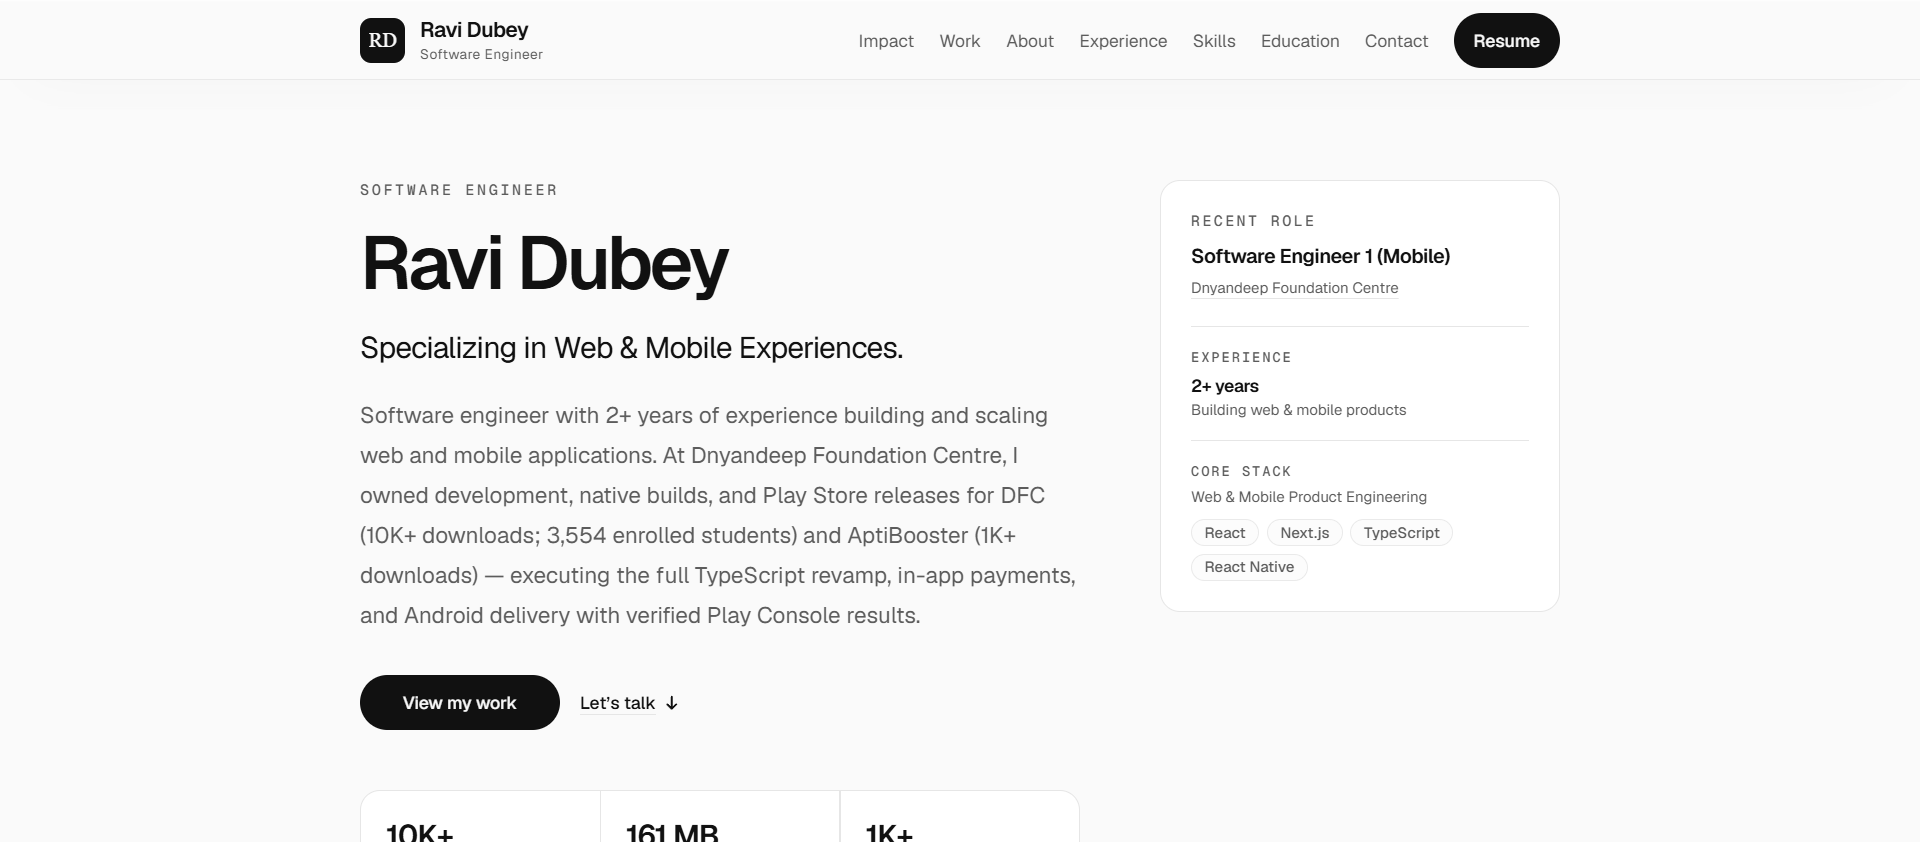
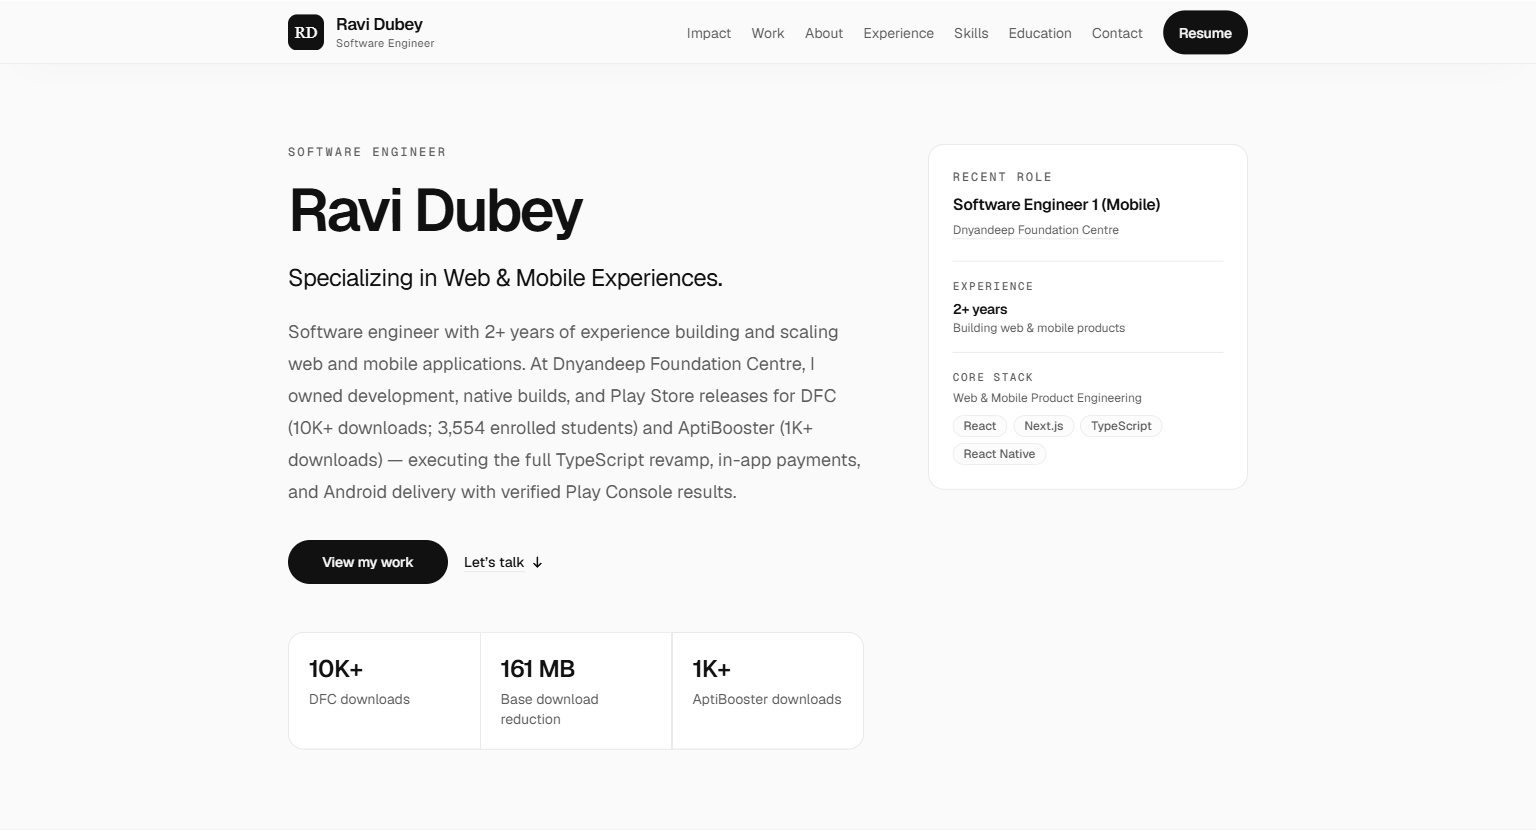
feat(content): refine experience facts, journey highlights, and metric labels

diff --git a/content/experience.ts b/content/experience.ts
@@ -13,14 +13,13 @@ export const experience: Experience[] = [
     kind: "production-app",
     prominence: 1,
     summary:
-      "Production ownership of DFC and AptiBooster, from feature work through Play Store release and maintenance.",
+      "Independent engineering ownership across DFC and AptiBooster, covering features, native builds, and Google Play releases.",
     highlights: [
       "Managed end-to-end Google Play releases, phased rollouts, and in-app update flows for DFC and AptiBooster.",
-      "Led the DFC mobile revamp on the existing Play listing — new TypeScript and TanStack Query codebase with onboarding, deep-link navigation, offline usage, and stronger auth/API error handling.",
-      "Cut DFC p90 app start from ~894 ms to 794 ms on production Android with lazy-loaded navigators and startup-path refactors (~100 ms / 11.2% faster); ~5 MB lower JS heap at Home idle in internal profiling after the same work.",
-      "Shipped a Firebase Crashlytics logger for fatal and non-fatal exceptions, with stack trace, API URL, and component context, plus selective axios interceptors that report actionable failures without flooding Crashlytics.",
-      "Moved Zoom Meeting SDK out of DFC base delivery with an Android Dynamic Feature Module.",
-      "Built AptiBooster so scoring, peer comparison, and analysis derive from one timed test attempt, and wired the mobile surfaces for API-backed insights, suggestions, and downloadable reports.",
+      "Moved Zoom Meeting SDK out of DFC base delivery with an Android Dynamic Feature Module (161 MB on-demand, reducing base download from 177 MB to 15.9 MB).",
+      "Cut DFC p90 app start from ~894 ms to 794 ms on production Android with lazy-loaded navigators and startup-path refactors; ~5 MB lower JS heap at Home idle in internal profiling.",
+      "Refactored DFC modules and UI state handling (including cleaning up peer intern contributions), maintaining a 0.1% user-perceived crash rate (10.36% lower than baseline).",
+      "Shipped Firebase Crashlytics structured contextual logger for fatal and non-fatal exceptions, with stack trace, API URL, and component context, plus selective axios interceptors.",
     ],
     /** Shared + DFC + AptiBooster — priority order; home shows first 9 only. */
     technologies: [
@@ -53,10 +52,12 @@ export const experience: Experience[] = [
     kind: "internship",
     prominence: 4,
     summary:
-      "Internship on the new DFC and AptiBooster apps—implemented most of the DFC mobile revamp in a fresh TypeScript repository (product flows, API layer, and screen work), with AptiBooster test and result analysis surfaces on the side.",
+      "Maintained legacy JavaScript codebase in a separate repo while developing the new DFC replacement app in a fresh React Native & TypeScript repository.",
     highlights: [
-      "Implemented the bulk of the new DFC app: replaced the legacy JavaScript codebase with TypeScript, TanStack Query, Axios (configured interceptors), and custom hooks so screens stay UI-focused and API logic stays separate.",
-      "Shipped DFC onboarding with authentication and authorization API integration, additional DFC modules, and AptiBooster test and result analysis surfaces.",
+      "Explored legacy JavaScript codebase, resolved existing bugs, and implemented in-app YouTube lecture redirection.",
+      "Built the new DFC replacement app in a fresh TypeScript repo, implementing centralized Axios interceptors to bridge dual API token contracts (request body for legacy endpoints vs. Authorization header for modern endpoints).",
+      "Built multi-step onboarding flow with role routing (students, teachers, admins) and implemented localization (i18n).",
+      "Contributed early AptiBooster test and result analysis mobile surfaces.",
     ],
     technologies: [
       "React Native",
@@ -85,10 +86,10 @@ export const experience: Experience[] = [
     kind: "internship",
     prominence: 4,
     summary:
-      "Internship on IKIOR’s wellness mobile app—period tracking was the hero feature at the time. Built React Native UI from Figma, inspired by established period tracking and lifestyle wellness apps on the Play Store. The product has since been heavily revamped; today’s live app is not these internship surfaces.",
+      "Frontend mobile development on IKIOR's React Native wellness application, translating Figma designs into responsive mobile screens and feature flows.",
     highlights: [
-      "Shipped period-tracking UI when it was the product hero—a cycle calendar with marked dates and per-day layouts built to surface insights as analysis was planned.",
-      "Instagram Reels–inspired UI with react-native-video; multi-step period report flow; Health, Care, and Sleep section screens from Figma.",
+      "Shipped period-tracking cycle calendar with marked dates and daily breakdown views to surface user insights.",
+      "Built Instagram Reels–inspired video feed using react-native-video, multi-step period reporting flow, and wellness section screens from Figma.",
     ],
     technologies: [
       "React Native",

diff --git a/content/projects.ts b/content/projects.ts
@@ -34,16 +34,16 @@ export const projects: Project[] = [
       "One Play listing for students, teachers, and admins—role-based access in the same product, not separate apps.",
       "Shipped lazy-loaded navigators and startup-path refactors: p90 app start ~894 ms → 794 ms on production Android (~100 ms / 11.2% faster). Internal profiling showed ~5 MB less JS heap at Home idle after the same work. Deep-link navigation and offline usage for core flows.",
       "Optimized the production Android App Bundle on Google Play from 21.02 MB on an earlier production release to 15.9 MB new-install size today (5.12 MB / 24.36%) on the same listing.",
-      "Built live lecture join with on-demand Zoom SDK download—progress, cancel, post-install restart, and resume when a meeting is already running—instead of shipping the full SDK with every install.",
-      "Delivered Zoom via an Android Dynamic Feature Module (feature_zoom, 161 MB on-demand on Play) with Kotlin and in-repo SDK patches: 15.9 MB base new-install download vs 177 MB prior production with Zoom in base (161.1 MB Release delivery reduction; 177 − 15.9), 9 s download time, 94 s faster than the prior production release.",
+      "Delivered Zoom via an Android Dynamic Feature Module (feature_zoom, 161 MB on-demand on Play) with in-repo patches, download progress, cancel, and seamless post-install restart—cutting base download from 177 MB to 15.9 MB (9 s download, 94 s faster).",
       "Production stability: 0.1% user-perceived crash rate on current production (Google Play)—10.36% lower than the pre-revamp baseline when I took over mobile.",
     ],
     caseStudyHighlights: [
-      "Built form management and schema-based client validation using Formik and Yup across multi-step student onboarding, auth, and profile workflows.",
+      "Built form management and schema-based client validation using Formik and Yup across multi-step student onboarding, auth, and profile workflows with role routing and localization (i18n).",
+      "Engineered centralized Axios request interceptors to bridge dual API token conventions (request body for legacy endpoints vs. Authorization header for modern endpoints) without UI coupling.",
       "Consolidated duplicate empty and error state screens into shared status components — eliminating ~30 redundant files and cutting 700+ lines of duplicate code to prevent UI drift.",
       "Integrated OneSignal for push notifications and in-app messaging on the production app.",
       "Shipped Google Play in-app updates so users can install new releases from inside the app.",
-      "Upgraded React Native from 0.76.5 to 0.81.0—updated dependencies for the new RN version, applied Android changes required by the upgrade (including edge-to-edge layout and safe-area handling), and validated behavior across supported OS versions.",
+      "Upgraded React Native from 0.76.5 to 0.81.0 to comply with Google Play target API policies and add support for modern Android versions (Android 15 and 16), updating dependencies, configuring edge-to-edge layouts, and validating cross-version behavior.",
     ],
     metricIds: [
       "dfc-bundle-optimization",

diff --git a/content/metrics.ts b/content/metrics.ts
@@ -77,7 +77,7 @@ export const metrics: Metric[] = [
   },
   {
     id: "dfc-zoom-delivery",
-    label: "Base delivery reduction",
+    label: "Base download reduction",
     value: "161 MB",
     previous: "177 MB",
     current: "15.9 MB",
